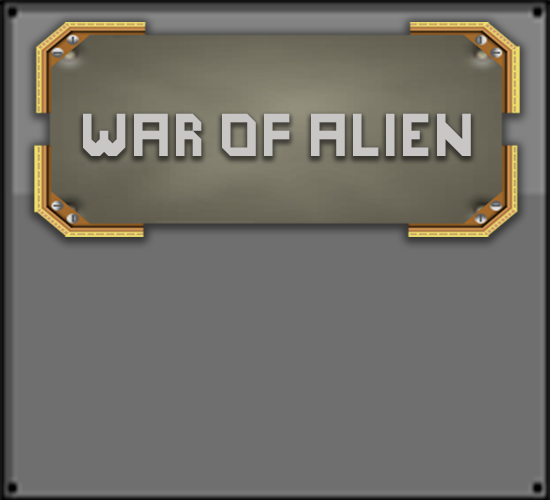
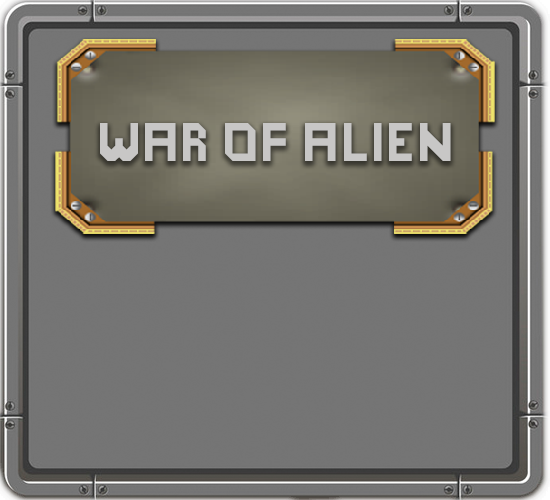
:lipstick: update homePanel

Changed region(s): [[0.0, 0.0, 1.0, 1.0]]

diff --git a/res/style.css b/res/style.css
@@ -5,7 +5,7 @@
 } 
 .button:pressed
 {
-  -fx-background-color: rgb(0, 0, 0);
+  -fx-background-color: transparent;
 }
 
 .playButton
@@ -24,7 +24,6 @@
 .playButton:pressed
 {
     -fx-background-image: url("Button/playButtonClicked.png");
-    /* -fx-background-color: brown; */
 }
 
 .canvas {
@@ -35,10 +34,46 @@
 
 .muteButton
 {
-	-fx-min-height: 65px;
-	-fx-min-width: 65px;
+	-fx-min-height: 10px;
+	-fx-min-width: 10px;
+	-fx-pref-height:45px;
+	-fx-pref-width:45px;
 	-fx-background-size: 100% 100%;
 	-fx-background-repeat: no-repeat;
 	-fx-background-position: center 0px;
 	-fx-background-color: transparent;
+}
+
+.creditButton
+{
+    -fx-min-height: 45px;
+	-fx-min-width: 160px;
+	-fx-background-image: url("Button/creditButton.png");
+	-fx-background-size: 100% 100%;
+	-fx-background-repeat: no-repeat;
+	-fx-background-position: center 0px;
+	-fx-background-color: transparent;
+}
+
+
+.creditButton:pressed
+{
+    -fx-background-image: url("Button/creditButtonPress.png");
+}
+
+.exitButton
+{
+    -fx-min-height: 45px;
+	-fx-min-width: 160px;
+	-fx-background-image: url("Button/exitButton.png");
+	-fx-background-size: 100% 100%;
+	-fx-background-repeat: no-repeat;
+	-fx-background-position: center 0px;
+	-fx-background-color: transparent;
+}
+
+
+.exitButton:pressed
+{
+    -fx-background-image: url("Button/exitButtonPress.png");
 }

diff --git a/src/gui/HomePanel.java b/src/gui/HomePanel.java
@@ -25,34 +25,54 @@ public class HomePanel extends VBox {
 	public HomePanel() {
 		Image bg = new Image("homePane.png");
 		setBackground(bg);
+		this.setSpacing(10);
 		
+		Canvas empty = new Canvas(20,190);
+		this.getChildren().add(empty);
 
 		Button playButton = new Button();
 		playButton.getStyleClass().add("playButton");
 		playButton.setOnMouseClicked(e ->{
+			System.out.println("PlayButton");
 			Drawing.updatePanel(GameState.Play);
 			SoundUtils.clickedSound();
 		});
+		this.getChildren().add(playButton);
+		
+		
+		Button creditButton = new Button();
+		creditButton.getStyleClass().add("creditButton");
+		creditButton.setOnMouseClicked(e ->{
+			System.out.println("credit click");
+		});
+		this.getChildren().add(creditButton);
+		
+		
+		Button exitButton = new Button();
+		exitButton.getStyleClass().add("exitButton");
+		exitButton.setOnMouseClicked(e ->{
+			System.out.println("Exit");
+			SoundUtils.terminate();
+			System.exit(0);
+		});
+		this.getChildren().add(exitButton);
 		
 		MuteButton muteButton = new MuteButton();
 		SoundUtils.setMuteButton(muteButton);
 		muteButton.setOnMouseClicked(e ->{
 			muteButton.update();
 		});
+		this.getChildren().add(muteButton);
 		
 //		
-		Canvas empty = new Canvas(20,80);
 		
 		this.setMaxHeight(500);
 		this.setMaxWidth(550);
 		this.setAlignment(Pos.CENTER);
-		this.getChildren().add(empty);
-		this.getChildren().add(playButton);
-		this.getChildren().add(muteButton);
 	}
 	
 	private void setBackground(Image image) {
-		BackgroundFill bgFill = new BackgroundFill(Color.MOCCASIN, CornerRadii.EMPTY, Insets.EMPTY);
+		BackgroundFill bgFill = new BackgroundFill(Color.TRANSPARENT, CornerRadii.EMPTY, Insets.EMPTY);
 		BackgroundFill[] bgFillA = {bgFill};
 		BackgroundSize bgSize = new BackgroundSize(550,500,false,false,false,false);
 		BackgroundImage bgImg = new BackgroundImage(image, null, null, null, bgSize);

diff --git a/src/application/SoundUtils.java b/src/application/SoundUtils.java
@@ -173,6 +173,10 @@ public class SoundUtils {
 		}
 	}
 
+	public static void terminate() {
+		musicplay.interrupt();
+	}
+	
 	public static MuteButton getMuteButton() {
 		return muteButton;
 	}
